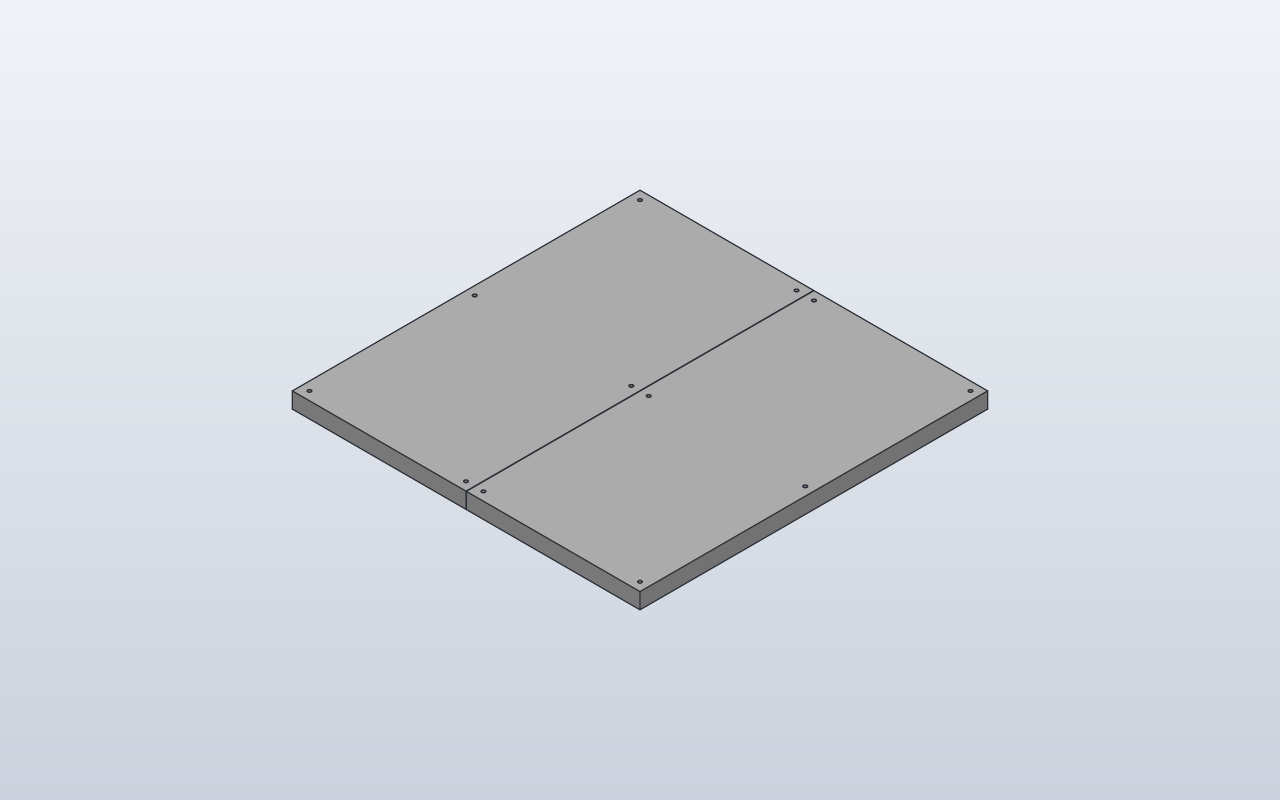
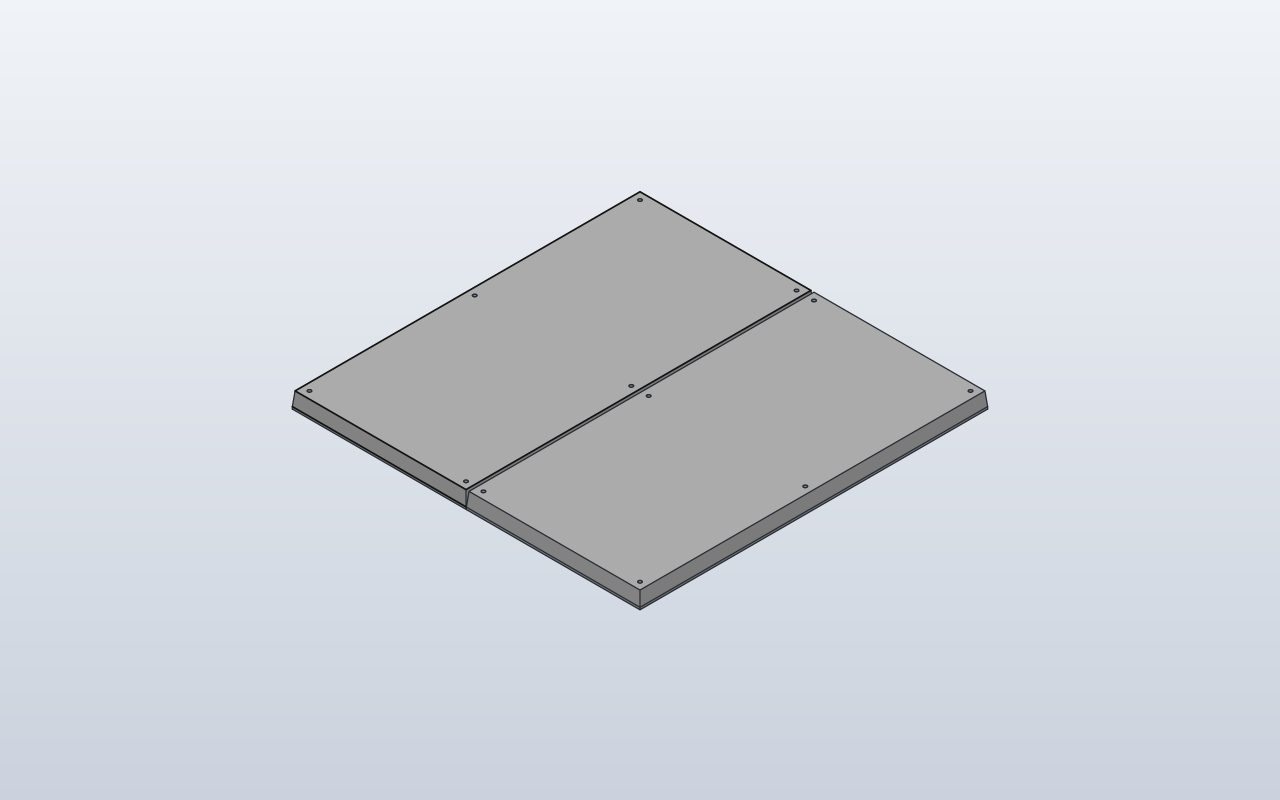
Verified CAD preview PR #26 at 8489cf4109564565bc977cfa14547d2f820737a0

diff --git a/previews/pr-26/models/hub75-panel/index.html b/previews/pr-26/models/hub75-panel/index.html
@@ -6,7 +6,7 @@
 <section class="hero"><div class="wrap"><div class="eyebrow">CAD design / hub75-panel</div>
 <h1>TwoHub75Panels</h1><p>Two occurrences of one measured P5 HUB75 panel component</p></div></section>
 <main class="wrap"><div class="metadata"><span class="badge verified">Native verified · snapshot from matching run</span>
-<span class="badge">21 commands</span><span class="badge">159.70 × 319.71 × 14.50 mm; six Ø3 holes; two occurrences at 160 mm pitch</span></div>
+<span class="badge">30 commands</span><span class="badge">159.70 × 319.71 × 14.50 mm; six Ø3 holes; two occurrences at 160 mm pitch</span></div>
 <div class="two"><section class="panel"><h2>Model preview</h2><div class="picture"><img src="native.png" alt="SolidCraft CAD render"></div>
 <p class="small muted">Native SolidCraft image, matching this source revision.</p>
 <p>First reusable panel assembly from the existing OpenSCAD reference: a 159.70 × 319.71 × 14.50 mm envelope with six Ø3 mounting-hole centres and a grey housing material. Two native occurrences at 160 mm pitch; rear details, PCB, connectors and rotations are future steps.</p></section>
@@ -25,8 +25,8 @@ Coordinate mapping for SCPF: X = panel width, Y = panel height,
 Z = front-to-rear depth. The front is at Z=0; the original OpenSCAD
 component uses X/Z for the front and Y for depth.
 
-Only the outer envelope, six M3 mounting-hole centres, and a housing
-material are modelled at this stage. This is NOT yet the full rear frame,
+Only the straight front and STEP-derived tapered outer envelope, six M3
+mounting-hole centres and a housing material are modelled at this stage. This is NOT yet the full rear frame,
 PCB, connectors, locator pins or an alternating-orientation assembly.
 &quot;&quot;&quot;
 
@@ -35,6 +35,8 @@ class Hub75Panel:
     width = 159.70
     height = 319.71
     depth = 14.50
+    front_depth = 2.00  # straight front: 1 mm mask + 1 mm PCB
+    rear_inset = 1.25   # STEP taper: inset on every side at the rear
 
     # Source holes: X=7.85/151.85, Z=7.855/159.855/311.855 from
     # the drawing&#x27;s lower-left corner. They become +/-72 and +/-152
@@ -44,7 +46,10 @@ class Hub75Panel:
     hole_diameter = 3.0
 
     def build(self):
-        body = Box(self.width, self.height, self.depth)
+        # Real long sloping sides from Z=2 to Z=14.5, not a short bevel.
+        body = Box(self.width, self.height, self.depth).taper(
+            from_z=self.front_depth, inset=self.rear_inset,
+        )
 
         for x in (-self.mount_x, self.mount_x):
             for y in (-self.mount_y, 0, self.mount_y):
@@ -95,6 +100,22 @@ TwoHub75Panels()
   &quot;params&quot;: {
     &quot;name&quot;: &quot;Hub75Panel_depth&quot;,
     &quot;expression&quot;: &quot;14.5&quot;,
+    &quot;unit&quot;: &quot;mm&quot;
+  }
+}</code></pre></li>
+<li><strong>Named CAD parameter</strong><small>parameters.add · name: Hub75Panel_front_depth</small><pre><code>{
+  &quot;command&quot;: &quot;parameters.add&quot;,
+  &quot;params&quot;: {
+    &quot;name&quot;: &quot;Hub75Panel_front_depth&quot;,
+    &quot;expression&quot;: &quot;2&quot;,
+    &quot;unit&quot;: &quot;mm&quot;
+  }
+}</code></pre></li>
+<li><strong>Named CAD parameter</strong><small>parameters.add · name: Hub75Panel_rear_inset</small><pre><code>{
+  &quot;command&quot;: &quot;parameters.add&quot;,
+  &quot;params&quot;: {
+    &quot;name&quot;: &quot;Hub75Panel_rear_inset&quot;,
+    &quot;expression&quot;: &quot;1.25&quot;,
     &quot;unit&quot;: &quot;mm&quot;
   }
 }</code></pre></li>
@@ -156,8 +177,75 @@ TwoHub75Panels()
 <li><strong>Extrusion / cut</strong><small>solid.extrude · body_name: Hub75Panel</small><pre><code>{
   &quot;command&quot;: &quot;solid.extrude&quot;,
   &quot;params&quot;: {
-    &quot;distance&quot;: &quot;Hub75Panel_depth&quot;,
+    &quot;distance&quot;: &quot;Hub75Panel_front_depth&quot;,
     &quot;body_name&quot;: &quot;Hub75Panel&quot;
+  }
+}</code></pre></li>
+<li><strong>Create sketch</strong><small>sketch.create · name: Hub75Panel rear start, plane: XY</small><pre><code>{
+  &quot;command&quot;: &quot;sketch.create&quot;,
+  &quot;params&quot;: {
+    &quot;plane&quot;: &quot;XY&quot;,
+    &quot;name&quot;: &quot;Hub75Panel rear start&quot;,
+    &quot;offset&quot;: &quot;Hub75Panel_front_depth&quot;
+  }
+}</code></pre></li>
+<li><strong>Rectangle</strong><small>sketch.rectangle.two_point</small><pre><code>{
+  &quot;command&quot;: &quot;sketch.rectangle.two_point&quot;,
+  &quot;params&quot;: {
+    &quot;p0&quot;: [
+      &quot;-Hub75Panel_width / 2&quot;,
+      &quot;-Hub75Panel_height / 2&quot;
+    ],
+    &quot;p1&quot;: [
+      &quot;Hub75Panel_width / 2&quot;,
+      &quot;Hub75Panel_height / 2&quot;
+    ]
+  }
+}</code></pre></li>
+<li><strong>Finish sketch</strong><small>sketch.finish</small><pre><code>{
+  &quot;command&quot;: &quot;sketch.finish&quot;,
+  &quot;params&quot;: {}
+}</code></pre></li>
+<li><strong>Create sketch</strong><small>sketch.create · name: Hub75Panel rear perimeter, plane: XY</small><pre><code>{
+  &quot;command&quot;: &quot;sketch.create&quot;,
+  &quot;params&quot;: {
+    &quot;plane&quot;: &quot;XY&quot;,
+    &quot;name&quot;: &quot;Hub75Panel rear perimeter&quot;,
+    &quot;offset&quot;: &quot;Hub75Panel_depth&quot;
+  }
+}</code></pre></li>
+<li><strong>Rectangle</strong><small>sketch.rectangle.two_point</small><pre><code>{
+  &quot;command&quot;: &quot;sketch.rectangle.two_point&quot;,
+  &quot;params&quot;: {
+    &quot;p0&quot;: [
+      &quot;(-Hub75Panel_width / 2) + (Hub75Panel_rear_inset)&quot;,
+      &quot;(-Hub75Panel_height / 2) + (Hub75Panel_rear_inset)&quot;
+    ],
+    &quot;p1&quot;: [
+      &quot;(Hub75Panel_width / 2) - (Hub75Panel_rear_inset)&quot;,
+      &quot;(Hub75Panel_height / 2) - (Hub75Panel_rear_inset)&quot;
+    ]
+  }
+}</code></pre></li>
+<li><strong>Finish sketch</strong><small>sketch.finish</small><pre><code>{
+  &quot;command&quot;: &quot;sketch.finish&quot;,
+  &quot;params&quot;: {}
+}</code></pre></li>
+<li><strong>solid.loft</strong><small>solid.loft · operation: join</small><pre><code>{
+  &quot;command&quot;: &quot;solid.loft&quot;,
+  &quot;params&quot;: {
+    &quot;sections&quot;: [
+      {
+        &quot;sketch&quot;: &quot;Hub75Panel rear start&quot;
+      },
+      {
+        &quot;sketch&quot;: &quot;Hub75Panel rear perimeter&quot;
+      }
+    ],
+    &quot;operation&quot;: &quot;join&quot;,
+    &quot;targets&quot;: [
+      &quot;Hub75Panel&quot;
+    ]
   }
 }</code></pre></li>
 <li><strong>Native Hole feature</strong><small>solid.hole · direction: [0.0, 0.0, -1.0]</small><pre><code>{

diff --git a/previews/pr-26/index.html b/previews/pr-26/index.html
@@ -46,5 +46,5 @@
 <h3>2 · Compile commands</h3><p>SCPF outputs native SolidCraft commands, with named parameters and a sequence of CAD operations.</p></section>
 <section class="panel"><h3>3 · Execute in SolidCraft</h3><p>The SolidCraft engine creates editable geometry, and CI validates its results. CAD and verification assets are only published when they match the source revision.</p>
 <h3>4 · Inspect the result</h3><p>Review the command timeline, native measurements and optional rendered preview. An unverified model is labelled as such.</p></section></div>
-<p class="small muted">Source revision: <code>9bb74b0e656c85240f71f078838abd0fe852ad68</code></p></main><footer><div class="wrap">SCPF Python models produce native SolidCraft commands. SolidCraft builds all geometry.</div></footer>
+<p class="small muted">Source revision: <code>8489cf4109564565bc977cfa14547d2f820737a0</code></p></main><footer><div class="wrap">SCPF Python models produce native SolidCraft commands. SolidCraft builds all geometry.</div></footer>
 </body></html>

diff --git a/previews/pr-26/models/hub75-panel/model.py b/previews/pr-26/models/hub75-panel/model.py
@@ -8,8 +8,8 @@ Coordinate mapping for SCPF: X = panel width, Y = panel height,
 Z = front-to-rear depth. The front is at Z=0; the original OpenSCAD
 component uses X/Z for the front and Y for depth.
 
-Only the outer envelope, six M3 mounting-hole centres, and a housing
-material are modelled at this stage. This is NOT yet the full rear frame,
+Only the straight front and STEP-derived tapered outer envelope, six M3
+mounting-hole centres and a housing material are modelled at this stage. This is NOT yet the full rear frame,
 PCB, connectors, locator pins or an alternating-orientation assembly.
 """
 
@@ -18,6 +18,8 @@ class Hub75Panel:
     width = 159.70
     height = 319.71
     depth = 14.50
+    front_depth = 2.00  # straight front: 1 mm mask + 1 mm PCB
+    rear_inset = 1.25   # STEP taper: inset on every side at the rear
 
     # Source holes: X=7.85/151.85, Z=7.855/159.855/311.855 from
     # the drawing's lower-left corner. They become +/-72 and +/-152
@@ -27,7 +29,10 @@ class Hub75Panel:
     hole_diameter = 3.0
 
     def build(self):
-        body = Box(self.width, self.height, self.depth)
+        # Real long sloping sides from Z=2 to Z=14.5, not a short bevel.
+        body = Box(self.width, self.height, self.depth).taper(
+            from_z=self.front_depth, inset=self.rear_inset,
+        )
 
         for x in (-self.mount_x, self.mount_x):
             for y in (-self.mount_y, 0, self.mount_y):
